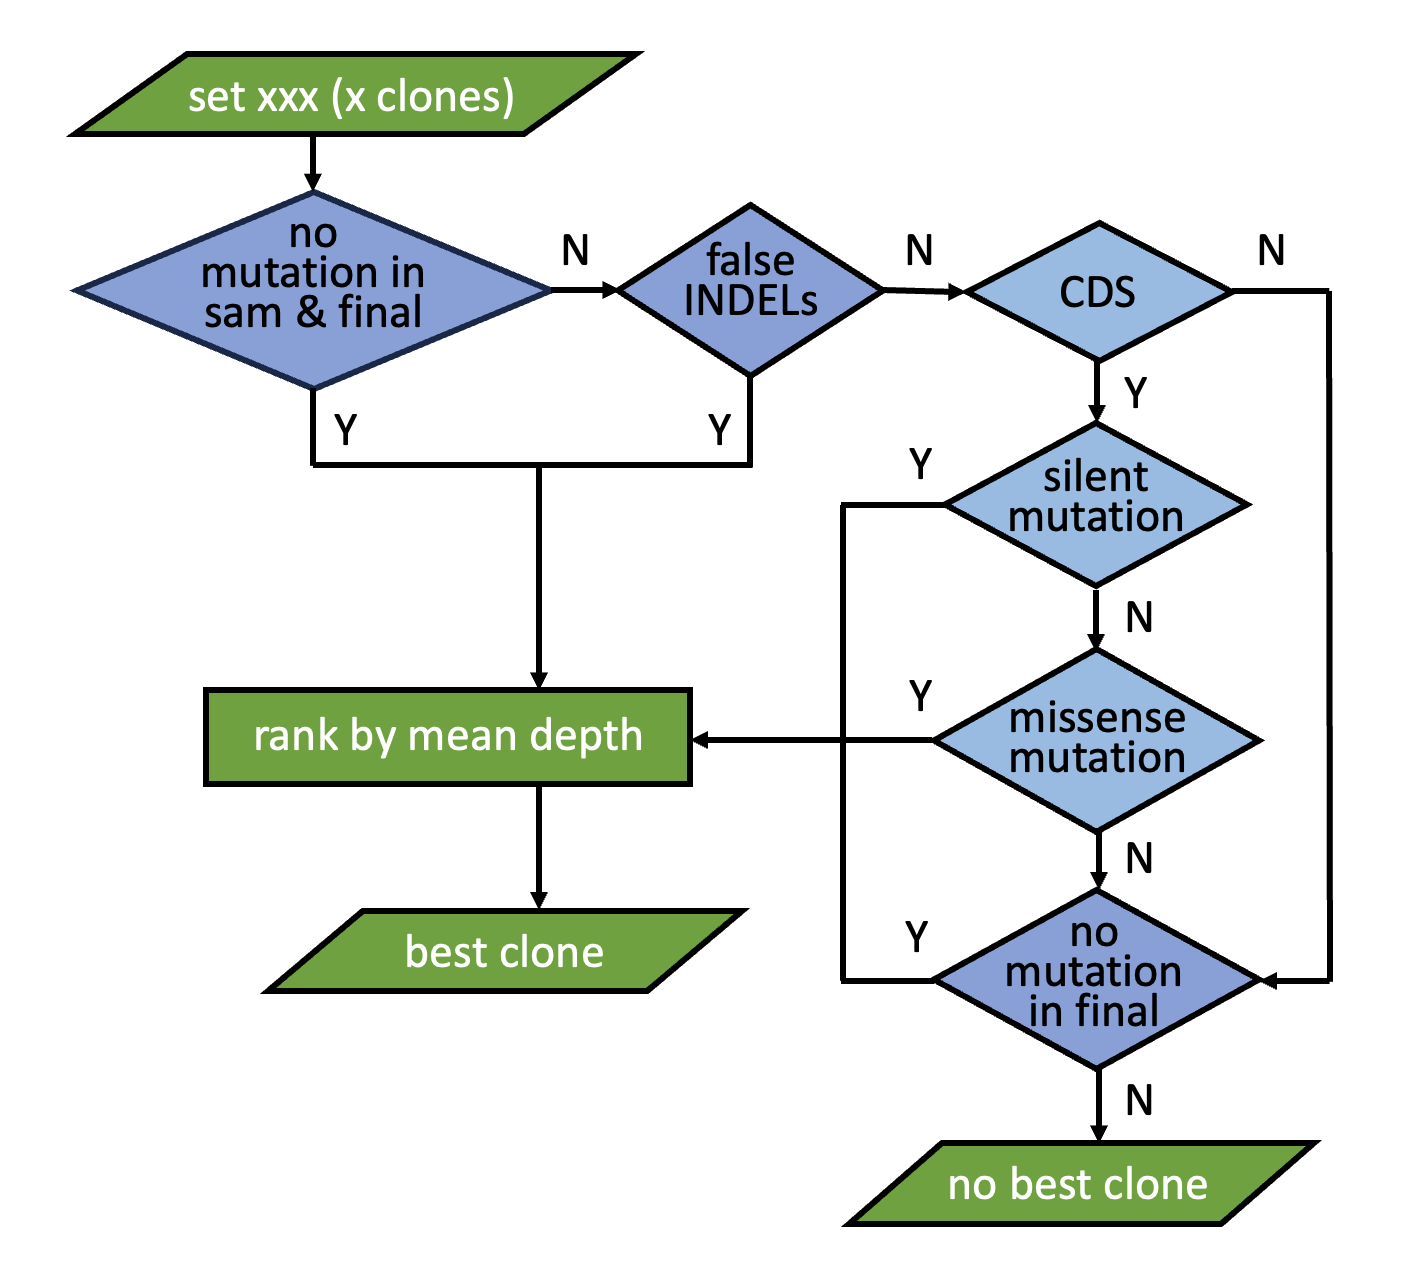
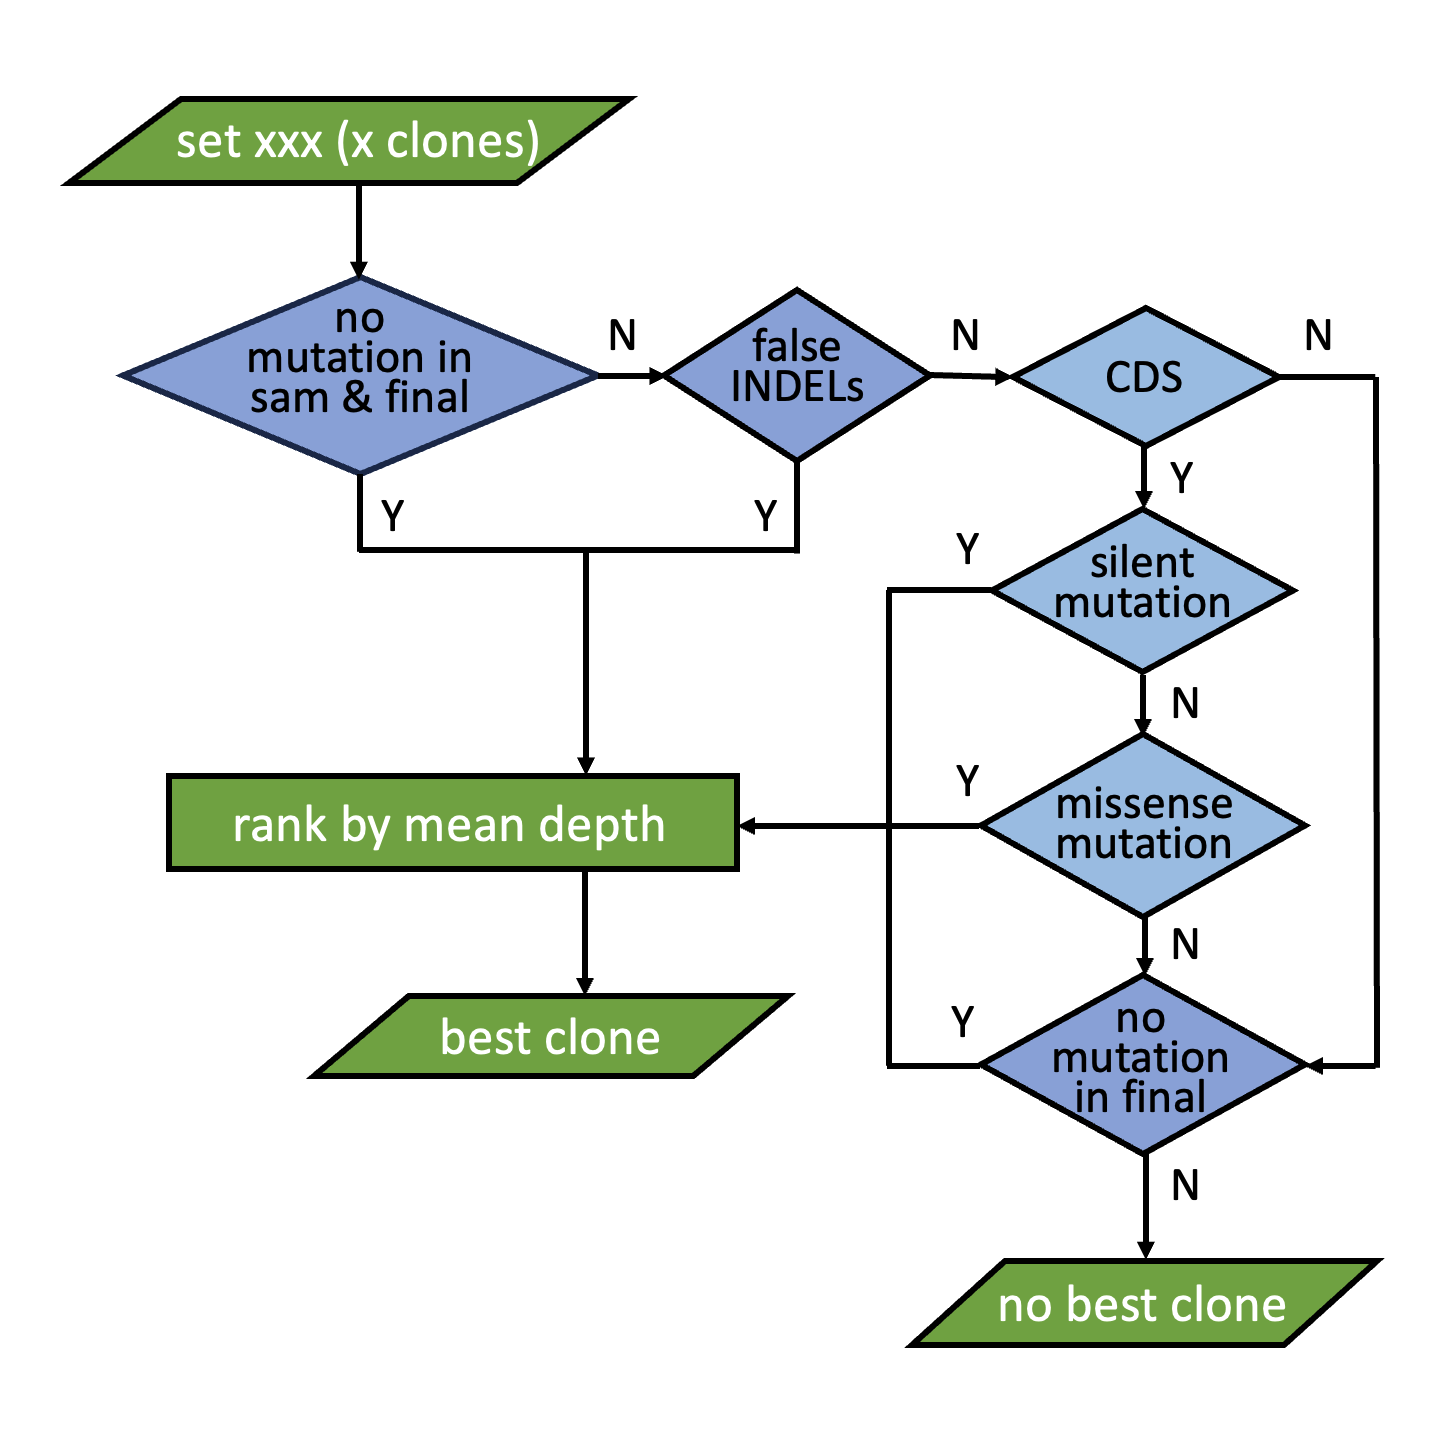
Update the README file.

Changed region(s): [[0.0311, 0.0311, 0.9646, 0.9627]]

diff --git a/README.md b/README.md
@@ -22,14 +22,14 @@ We established a pipeline that performs comprehensive analysis and generates a c
 
 ### Consensus Sequence Generation
 The flowchart illustrating the pipeline is shown below.  
-<img src="www/pipeline.png" style="display: block; margin-left: auto; margin-right: auto; height: 420px;" />  
+<img src="www/pipeline.png" style="display: block; margin-left: auto; margin-right: auto; height: 450px;" />  
 In general, this pipeline uses `miniBar` for demultiplexing with an optimized combination of the maximum allowed edit distance for both barcodes and primers (Krehenwinkel et al., 2019). `Chopper` is applied to remove low-quality reads (De Coster and Rademakers, 2023). The filtered reads are mapped to the reference sequence using `minimap2`, and the draft consensus sequence for each sample is assembled with `samtools`, `bcftools`, and `bedtools` (Quinlan and Hall, 2010; Li, 2018; Danecek et al., 2021). The draft assembly is polished through three rounds of `Racon`, followed by one round of `Medaka`. After generating the final consensus sequences for all the samples, variant calling is conducted by `Medaka`, and results are extracted by `seqtk`. If the sequence is solely the coding sequence, the type of mutations is determined with the application of `emboss` (Rice et al., 2000). The pairwise alignment between the consensus sequence and the reference is visualized as individual HTML files, generated by `muscle3` (Edgar, 2004). Statistics for each step are obtained by `samtools`, `deeptools` (Ramírez et al., 2016), `emboss`, and `parallel` (Tange O, 2021). All the results generated from each step are stored in the Excel file named "Summary.xlsx", under the sheet titled "All Info".
   
 [(Back to top)](#construct-validation-for-iggypopseq)
 
 ### Best Clone Selection
 The selection process for the best clone of each construct is outlined in the flowchart below.
-<img src="www/best-clone-selection.png" style="display: block; margin-left: auto; margin-right: auto; height: 400px;" />  
+<img src="www/best-clone-selection.png" style="display: block; margin-left: auto; margin-right: auto; height: 450px;" />  
 During the analysis process, a draft consensus sequence is initially generated using `samtools`. This draft sequence is then polished using `Racon` and `Medaka`, producing the final consensus sequence. Based on our prior experience, some constructs may exhibit heterozygous sites that are detectable by `samtools`, which represent as lowercase letters (possible gap) or ambiguity codes (possible SNPs) in the draft sequence. However, this information is typically lost during the polishing steps, and it is not retained in the final sequence.  
 As part of our pipeline, we first prioritize and select constructs that have no mutations in both the draft sequence (generated by `samtools`) and the final sequence (after polishing). It has been reported that poly-polynucleotides (e.g. polyA or polyT) can lead to false indels (insertions and deletions) in the consensus sequence. From our observations, such indels are all false negatives. Therefore, if no better constructs are available in the first selection step, we prioritize those annotated as having false indels. In cases where the reference sequences are CDS (coding sequences), constructs containing silent mutations or missense mutations will then be preferred as the best clones. After that, if there is still no better option, the clones with no mutations in the final polished sequence will be provided. However, clones annotated with potential heterozygous sites should be used with caution.  
 The results of the analysis are recorded in the "Summary_by_gene" sheet within the "Summary.xlsx" file. Additionally, all clones associated with unsuccessful constructs are documented in the "Sets_incorrect" sheet of the same file.  
